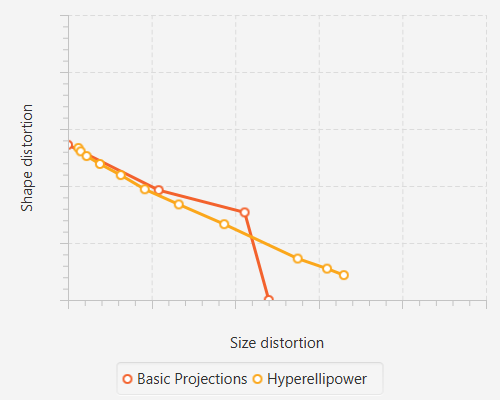
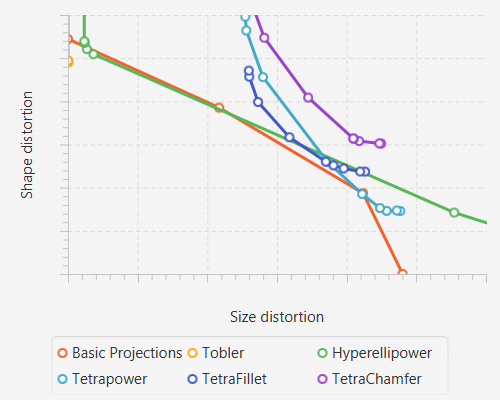
Gradient Descent Sucks
I spent a while tweaking my optimization algorithm and trying to figure out why it sucks so much (i.e. why it keeps giving me trash maps), and I think I figured it out. Gradient descent sucks. At least, with this system it does. The functions are too stiff, the numbers too variable in orders of magnitude. Tobler never reaches a good set of parameters because one of its parameters uses degrees instead of radians, so it descends 3,000 times slower. How messed up is that?
I did some research, and I think Broyden-Fletcher-Goldfarb-Shanno is what I want to use. I read up on it and know exactly how I would implement it, if I actually cared that much.
As fun as BFGS would be to implement and use, I go back to school tomorrow and want this done. To that end, I added a slight modification to my gradient descent to deal with the degrees-radians issue and increased the number of iterations drastically. I tried doing a basic Newton's method with the derivative, but I did it one-dimensionally, so it sucked. I just really didn't want to deal with matrices. So here we are. Good enough, I say.

diff --git a/src/apps/MapOptimizer.java b/src/apps/MapOptimizer.java
@@ -53,12 +53,14 @@ import maps.Tobler;
 public class MapOptimizer extends Application {
 	
 	private static final Projection[] EXISTING_PROJECTIONS = { Cylindrical.HOBO_DYER,
-			Robinson.ROBINSON, Cylindrical.PLATE_CARREE, Misc.PEIRCE_QUINCUNCIAL };
-	private static final Projection[] PROJECTIONS_TO_OPTIMIZE = { Tobler.TOBLER,
-			MyProjections.HYPERELLIPOWER, Tetrahedral.TETRAPOWER, Tetrahedral.TETRAFILLET,
-			Tetrahedral.TETRACHAMFER };
-	private static final double[] WEIGHTS = { .083, .20, .33, .50, .71, 1.0, 1.4, 2.0, 3.0, 5.0, 12. };
-	private static final int NUM_DESCENT = 40;
+			Robinson.ROBINSON, Tetrahedral.TETRAGRAPH, Misc.PEIRCE_QUINCUNCIAL };
+	private static final Projection[] PROJECTIONS_TO_OPTIMIZE = {
+			Tobler.TOBLER, MyProjections.HYPERELLIPOWER, Tetrahedral.TETRAPOWER,
+			Tetrahedral.TETRAFILLET, Tetrahedral.TETRACHAMFER };
+	private static final double[] WEIGHTS = { 0., .125, .25, .375, .5, .625, .75, .875, 1. };
+	private static final int NUM_BRUTE_FORCE = 520;
+	private static final int NUM_DESCENT = 50;
+	private static final double DEL_X = 0.01;
 	private LineChart<Number, Number> chart;
 	
 	
@@ -72,8 +74,8 @@ public class MapOptimizer extends Application {
 	public void start(Stage stage) throws Exception {
 		final long startTime = System.currentTimeMillis();
 		
-		chart = new LineChart<Number, Number>(new NumberAxis("Size distortion", 0, 1, 0.2),
-				new NumberAxis("Shape distortion", 0, 1, 0.2));
+		chart = new LineChart<Number, Number>(new NumberAxis("Size distortion", 0, .6, 0.1),
+				new NumberAxis("Shape distortion", 0, .6, 0.1));
 		chart.setCreateSymbols(true);
 		chart.setAxisSortingPolicy(SortingPolicy.NONE);
 		double[][][] globe = Projection.globe(0.01);
@@ -83,7 +85,7 @@ public class MapOptimizer extends Application {
 		for (Projection p: PROJECTIONS_TO_OPTIMIZE)
 			chart.getData().add(optimizeFamily(p, globe, log));
 		
-		System.out.println("Total time elapsed: " + (System.currentTimeMillis() - startTime) / 1000. + "s");
+		System.out.println("Total time elapsed: " + (System.currentTimeMillis() - startTime) / 60000. + "m");
 		
 		stage.setTitle("Map Projections");
 		stage.setScene(new Scene(chart));
@@ -140,9 +142,10 @@ public class MapOptimizer extends Application {
 				if (i == params.length)
 					break bruteForceLoop; // if you made it through all the parameters without breaking, you're done!
 				
-				final double step = (bounds[i][1] - bounds[i][0]) / Math.floor(Math.pow(16, 1. / params.length));
+				final double step = (bounds[i][1] - bounds[i][0]) /
+						Math.floor(Math.pow(NUM_BRUTE_FORCE, 1./params.length));
 				if (params[i] + step < bounds[i][1] + 1e-5) {
-					for (int j = 0; j < i; j++)
+					for (int j = 0; j < i; j ++)
 						params[j] = bounds[j][0];
 					params[i] += step;
 					break;
@@ -151,7 +154,6 @@ public class MapOptimizer extends Application {
 		}
 		
 		final double h = 1e-7;
-		final double delX = 5e-2;
 		for (int k = 0; k < WEIGHTS.length; k++) { // now do gradient descent
 			System.arraycopy(currentBest[k], 3, params, 0, params.length);
 			System.out.println("Starting gradient descent with weight " + WEIGHTS[k] + " and initial parameters "
@@ -159,19 +161,26 @@ public class MapOptimizer extends Application {
 			double fr0 = currentBest[k][0];
 			double[] frd = new double[params.length];
 			for (int i = 0; i < NUM_DESCENT; i++) {
-				if (i > 0)
-					fr0 = weighDistortion(WEIGHTS[k], proj.avgDistortion(points, params)); // calculate the distortion here
 				System.out.println(Arrays.toString(params) + " -> " + fr0);
 				for (int j = 0; j < params.length; j++) {
 					params[j] += h;
-					frd[j] = weighDistortion(WEIGHTS[k], proj.avgDistortion(points, params)); // and the distortion nearby
+					frd[j] = weighDistortion(WEIGHTS[k], proj.avgDistortion(points, params)); // calculate the distortion nearby
 					params[j] -= h;
 				}
 				for (int j = 0; j < params.length; j++)
-					params[j] -= (frd[j] - fr0) / h * delX; // use that to approximate the gradient and go in that direction
+					params[j] -= (frd[j] - fr0)/h * Math.pow(bounds[j][1]-bounds[j][0],2) * DEL_X; // use that to approximate the gradient and go in the other direction
+				
+				final double[] distsHere = proj.avgDistortion(points, params);
+				fr0 = weighDistortion(WEIGHTS[k], distsHere); // calculate the distortion here
+				
+				if (fr0 <= currentBest[k][0]) { // make sure we are still descending
+					currentBest[k][0] = fr0; // and save the current datum
+					System.arraycopy(distsHere, 0, currentBest[k], 1, 2);
+					System.arraycopy(params, 0, currentBest[k], 3, params.length);
+				}
+				else
+					break;
 			}
-			System.arraycopy(params, 0, currentBest[k], 3, params.length);
-			System.arraycopy(proj.avgDistortion(points, params), 0, currentBest[k], 1, 2);
 		}
 		
 		final Series<Number, Number> output = new Series<Number, Number>();
@@ -191,7 +200,7 @@ public class MapOptimizer extends Application {
 	
 	
 	private static final double weighDistortion(double weight, double... distortions) {
-		return Math.pow(distortions[0], 1.5) + weight * Math.pow(distortions[1], 1.5);
+		return distortions[0]*weight + distortions[1]*(1-weight);
 	}
 	
 	

diff --git a/src/apps/MapPlotter.java b/src/apps/MapPlotter.java
@@ -47,7 +47,6 @@ import javafx.scene.layout.AnchorPane;
 import javafx.scene.layout.StackPane;
 import javafx.stage.Stage;
 import maps.Azimuthal;
-import maps.Conic;
 import maps.Cylindrical;
 import maps.Misc;
 import maps.MyProjections;
@@ -65,15 +64,15 @@ import maps.WinkelTripel;
 public class MapPlotter extends Application {
 
 	
-	private static final Projection[] COMMON = { Azimuthal.STEREOGRAPHIC, Conic.LAMBERT,
-			Cylindrical.MERCATOR, Azimuthal.POLAR, Conic.EQUIDISTANT, Cylindrical.PLATE_CARREE,
-			Azimuthal.EQUAL_AREA, Conic.ALBERS, Cylindrical.GALL_PETERS, Cylindrical.GALL,
-			Misc.VAN_DER_GRINTEN, Robinson.ROBINSON, WinkelTripel.WINKEL_TRIPEL,
-			Azimuthal.ORTHOGRAPHIC };
+	private static final Projection[] COMMON = { Azimuthal.STEREOGRAPHIC, Cylindrical.MERCATOR,
+			Azimuthal.POLAR, Cylindrical.PLATE_CARREE, Azimuthal.EQUAL_AREA,
+			Cylindrical.GALL_PETERS, Cylindrical.GALL, Misc.VAN_DER_GRINTEN, Robinson.ROBINSON,
+			WinkelTripel.WINKEL_TRIPEL, Azimuthal.ORTHOGRAPHIC };
 	private static final Projection[] UNCOMMON = { Misc.PEIRCE_QUINCUNCIAL, Tetrahedral.LEE,
 			Tobler.TOBLER, Cylindrical.BEHRMANN, Misc.AITOFF };
 	private static final Projection[] INVENTED = { MyProjections.PSEUDOSTEREOGRAPHIC,
-			MyProjections.HYPERELLIPOWER, Tetrahedral.TETRAPOWER, Tetrahedral.TETRAFILLET };
+			MyProjections.HYPERELLIPOWER, Tetrahedral.TETRAPOWER, Tetrahedral.TETRAFILLET,
+			MyProjections.TWO_POINT_EQUALIZED };
 	
 	
 	private StackPane stack;

diff --git a/src/maps/Tetrahedral.java b/src/maps/Tetrahedral.java
@@ -80,7 +80,7 @@ public class Tetrahedral {
 			new TetrahedralProjection(
 					"Tetrapower", "A parametric projection that I'm still testing",
 					Math.sqrt(3), 0b1111, Property.COMPROMISE, new String[] {"k1","k2","k3"},
-					new double[][] {{.25,4.,.87},{.25,4.,1.67},{.25,4.,1.00}}) {
+					new double[][] {{.01,2.,.98},{.01,2.,1.2},{.01,2.,.98}}) {
 		
 		private double k1, k2, k3;
 		
@@ -120,7 +120,7 @@ public class Tetrahedral {
 	public static final Projection TETRAFILLET =
 			new TetrahedralProjection("TetraFillet", "A parametric projection that I'm still testing",
 					Math.sqrt(3), 0b1110, Property.COMPROMISE, new String[] {"k1","k2","k3"},
-					new double[][] {{.25,4.,1.1598},{.25,4.,.36295},{.25,4.,1.9553}}) {
+					new double[][] {{.01,2.,.78},{.01,2.,.99},{.01,2.,1.3}}) {
 		
 		private double k1, k2, k3;
 		
@@ -167,7 +167,7 @@ public class Tetrahedral {
 			new TetrahedralProjection(
 					"TetraChamfer", "A parametric projection that I'm still testing", Math.sqrt(3),
 					0b1110, Property.COMPROMISE, new String[] {"k1","k2","k3"},
-					new double[][] {{.25,4.,1.1598},{.25,4.,.36295},{.25,4.,1.9553}}) {
+					new double[][] {{.01,2.,.78},{.01,2.,.99},{.01,2.,1.3}}) {
 		
 		private double k1, k2, k3;
 		

diff --git a/src/maps/MyProjections.java b/src/maps/MyProjections.java
@@ -60,7 +60,8 @@ public class MyProjections {
 	
 	
 	public static final Projection EXPERIMENT =
-			new Projection("Experiment", "What happens when you apply a complex differentiable function to a stereographic projection?",
+			new Projection("Experiment",
+					"What happens when you apply a complex differentiable function to a stereographic projection?",
 					1., 0b0000, Type.OTHER, Property.CONFORMAL) {
 		
 		public double[] project(double lat, double lon) {
@@ -108,7 +109,7 @@ public class MyProjections {
 			new Projection("Hyperellipower", "A parametric projection that I'm still testing",
 					2., 0b1111, Type.PSEUDOCYLINDRICAL, Property.COMPROMISE,
 					new String[] {"k","n","a"},
-					new double[][] {{1,5,4.99},{.5,2.,1.20},{.5,2.,1.13}}) {
+					new double[][] {{1,3,5},{.5,2.,1.20},{.5,2.,1.13}}) {
 		
 		private double k, n, a;
 		

diff --git a/src/maps/Tobler.java b/src/maps/Tobler.java
@@ -42,7 +42,7 @@ public class Tobler {
 					"Tobler", "An equal-area projection shaped like a hyperellipse (in case you're wondering about gamma, it's calculated automatically)",
 					2., 0b1001, Type.PSEUDOCYLINDRICAL, Property.EQUAL_AREA,
 					new String[]{"Std. Parallel","alpha","K"},
-					new double[][] {{0,89,37.5}, {0,1,0}, {1,8,2.5}}) {
+					new double[][] {{0,89,30.6}, {0,1,.5}, {1,8,3.63}}) {
 		
 		private static final int N = 10000;
 		private double alpha, kappa, epsilon; //epsilon is related to gamma, but defined somewhat differently
